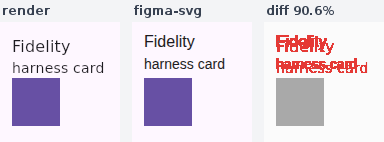
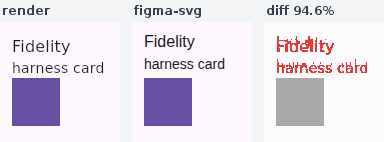
fix: structural (±1px) fidelity diff + locale-stable score JSON
Follow-up to the figma-svg fidelity harness (#2212):

- Give FigmaFidelity a spatial tolerance: a pixel matches when some pixel of the
  other image within a ±1px neighbourhood is close, so an unavoidable sub-pixel
  shift of a text baseline / shape edge between the render and its SVG
  re-rasterisation reads as a match rather than dominating the score. `spatialRadius`
  is configurable (0 restores a position-locked compare). The composite card rises
  from ~91% to ~95% and the diff shows only genuine drift, not 1px text jitter.
- Format the `compose-figma-fidelity.json` score with Locale.ROOT so a comma-decimal
  host locale (e.g. de_DE) can't emit `"score":0,95` and corrupt the JSON
  (Codex review P2). Same for the composite's on-image diff label.

Adds a 1px-shift unit test and pins the raw-agreement test to spatialRadius=0.

Changed region(s): [[0.7188, 0.3944, 0.9375, 0.507], [0.7188, 0.2254, 0.875, 0.3662], [0.7812, 0.0282, 0.8125, 0.1127]]

diff --git a/data/layoutinspector/connector/src/main/kotlin/ee/schimke/composeai/daemon/FigmaFidelity.kt b/data/layoutinspector/connector/src/main/kotlin/ee/schimke/composeai/daemon/FigmaFidelity.kt
@@ -32,6 +32,15 @@ object FigmaFidelity {
   data class Options(
     /** Per-channel absolute difference (0..255) under which a pixel counts as matching. */
     val tolerance: Int = 24,
+    /**
+     * Neighbourhood radius (px) the match is allowed to shift within. A pixel counts as matching
+     * when *some* pixel of the other image within this radius is close — so a ≤`spatialRadius`-px
+     * shift of text baselines or shape edges (all but unavoidable between the render and its SVG
+     * re-rasterisation) reads as a match, not a structural defect. `0` restores an exact
+     * position-locked compare; `1` (default) absorbs the sub-pixel drift that otherwise makes text
+     * dominate the score.
+     */
+    val spatialRadius: Int = 1,
     /** Opaque background both images are flattened onto before comparison (ARGB). */
     val background: Int = 0xFFFFFFFF.toInt(),
     /** Gutter (px) between the panels of the side-by-side composite. */
@@ -72,22 +81,54 @@ object FigmaFidelity {
         options.background,
       )
 
+    val pxa = IntArray(w * h)
+    val pxb = IntArray(w * h)
+    a.getRGB(0, 0, w, h, pxa, 0, w)
+    b.getRGB(0, 0, w, h, pxb, 0, w)
     val diff = BufferedImage(w, h, BufferedImage.TYPE_INT_RGB)
     var matched = 0L
     var errorSum = 0.0
     val total = w.toLong() * h.toLong()
+    val r = options.spatialRadius.coerceAtLeast(0)
     for (y in 0 until h) {
       for (x in 0 until w) {
-        val pa = a.getRGB(x, y)
-        val pb = b.getRGB(x, y)
-        val dr = Math.abs(((pa shr 16) and 0xFF) - ((pb shr 16) and 0xFF))
-        val dg = Math.abs(((pa shr 8) and 0xFF) - ((pb shr 8) and 0xFF))
-        val db = Math.abs((pa and 0xFF) - (pb and 0xFF))
-        errorSum += (dr + dg + db)
-        if (maxOf(dr, dg, db) <= options.tolerance) {
+        val pa = pxa[y * w + x]
+        val ar = (pa shr 16) and 0xFF
+        val ag = (pa shr 8) and 0xFF
+        val ab = pa and 0xFF
+        // Structural match: score this pixel against the *closest* pixel of b within `r`px, so a
+        // sub-pixel shift of an edge/glyph finds its match instead of reading as a mismatch. The
+        // (0,0) neighbour is always in bounds, so `bestMax` is always set.
+        var bestMax = Int.MAX_VALUE
+        var bestSum = 0
+        var dy = -r
+        while (dy <= r) {
+          val ny = y + dy
+          if (ny in 0 until h) {
+            var dx = -r
+            while (dx <= r) {
+              val nx = x + dx
+              if (nx in 0 until w) {
+                val pb = pxb[ny * w + nx]
+                val dr = Math.abs(ar - ((pb shr 16) and 0xFF))
+                val dg = Math.abs(ag - ((pb shr 8) and 0xFF))
+                val db = Math.abs(ab - (pb and 0xFF))
+                val mx = maxOf(dr, dg, db)
+                if (mx < bestMax) {
+                  bestMax = mx
+                  bestSum = dr + dg + db
+                }
+              }
+              dx++
+            }
+          }
+          dy++
+        }
+        errorSum += bestSum
+        if (bestMax <= options.tolerance) {
           matched++
           // Matching pixels: a dimmed grayscale of the render, so mismatches pop.
-          val gray = ((((pa shr 16) and 0xFF) + ((pa shr 8) and 0xFF) + (pa and 0xFF)) / 3)
+          val gray = (ar + ag + ab) / 3
           val dim = (gray * 3 / 5) + 100
           diff.setRGB(x, y, (dim shl 16) or (dim shl 8) or dim)
         } else {
@@ -144,7 +185,12 @@ object FigmaFidelity {
     g.color = Color(0xF3F4F6)
     g.fillRect(0, 0, outW, outH)
     val panels =
-      listOf("render" to render, "figma-svg" to svg, "diff ${"%.1f".format(score * 100)}%" to diff)
+      listOf(
+        "render" to render,
+        "figma-svg" to svg,
+        // Locale.ROOT keeps the label `.`-separated regardless of the host locale.
+        "diff ${String.format(java.util.Locale.ROOT, "%.1f", score * 100)}%" to diff,
+      )
     g.font = Font(Font.SANS_SERIF, Font.BOLD, 12)
     for ((i, panel) in panels.withIndex()) {
       val x = i * (w + gutter)

diff --git a/data/layoutinspector/connector/src/test/kotlin/ee/schimke/composeai/daemon/FigmaFidelityTest.kt b/data/layoutinspector/connector/src/test/kotlin/ee/schimke/composeai/daemon/FigmaFidelityTest.kt
@@ -53,7 +53,9 @@ class FigmaFidelityTest {
     g.color = Color(0xFFFFFF)
     g.fillRect(10, 0, 10, 20)
     g.dispose()
-    val r = FigmaFidelity.compare(a, b)
+    // Position-locked (radius 0) so the boundary column isn't bridged by the spatial tolerance —
+    // this asserts the raw agreement fraction.
+    val r = FigmaFidelity.compare(a, b, FigmaFidelity.Options(spatialRadius = 0))
     assertEquals(0.5, r.score, 1e-9)
   }
 
@@ -66,6 +68,35 @@ class FigmaFidelityTest {
     assertEquals(30, r.width)
     assertEquals(30, r.height)
     assertTrue("scaled-but-identical colour must score high, got ${r.score}", r.score > 0.99)
+  }
+
+  @Test
+  fun `one-pixel shift is absorbed by the default spatial tolerance`() {
+    // A thin vertical black bar, shifted right by 1px between the two images — the kind of
+    // sub-pixel
+    // drift a text baseline / edge shows between the render and its SVG re-rasterisation. With the
+    // default spatialRadius=1 this must score ~perfect; position-locked (radius 0) it must not.
+    fun barAt(col: Int): BufferedImage {
+      val img = BufferedImage(20, 20, BufferedImage.TYPE_INT_ARGB)
+      val g = img.createGraphics()
+      g.color = Color(0xFFFFFF)
+      g.fillRect(0, 0, 20, 20)
+      g.color = Color(0x000000)
+      g.fillRect(col, 0, 2, 20)
+      g.dispose()
+      return img
+    }
+    val a = barAt(8)
+    val b = barAt(9) // shifted 1px
+
+    assertTrue(
+      "1px shift must score ~perfect with spatial tolerance, got ${FigmaFidelity.compare(a, b).score}",
+      FigmaFidelity.compare(a, b).score > 0.99,
+    )
+    assertTrue(
+      "position-locked (radius 0) must flag the shifted bar",
+      FigmaFidelity.compare(a, b, FigmaFidelity.Options(spatialRadius = 0)).score < 0.95,
+    )
   }
 
   @Test

diff --git a/daemon/desktop/src/main/kotlin/ee/schimke/composeai/daemon/FigmaSvgFidelity.kt b/daemon/desktop/src/main/kotlin/ee/schimke/composeai/daemon/FigmaSvgFidelity.kt
@@ -224,10 +224,15 @@ object FigmaSvgFidelity {
     return out.toByteArray()
   }
 
+  // Locale.ROOT so decimals are always `.`-separated — a comma-decimal host locale (e.g. de_DE)
+  // would otherwise emit `"score":0,91`, which is not valid JSON.
   private fun scoreJson(r: FigmaFidelity.Result, rasterizer: String): String =
-    """{"score":${"%.4f".format(r.score)},""" +
-      """"scorePercent":${"%.2f".format(r.scorePercent)},""" +
-      """"meanAbsError":${"%.3f".format(r.meanAbsError)},""" +
+    """{"score":${fmt("%.4f", r.score)},""" +
+      """"scorePercent":${fmt("%.2f", r.scorePercent)},""" +
+      """"meanAbsError":${fmt("%.3f", r.meanAbsError)},""" +
       """"rasterizer":"$rasterizer",""" +
       """"width":${r.width},"height":${r.height}}"""
+
+  private fun fmt(pattern: String, value: Double): String =
+    String.format(java.util.Locale.ROOT, pattern, value)
 }

diff --git a/docs/design/figma-svg-example/fidelity/README.md b/docs/design/figma-svg-example/fidelity/README.md
@@ -17,13 +17,17 @@ and a browser live). The pure scoring/compositing lives in `FigmaFidelity`; the 
 
 ![hybrid image fidelity](hybrid-image.png)
 
-**Composite card — ~91%.** A themed `Surface` with a title, body text, and a coloured box. The
-surface fill and box match; the diff isolates a small **text-baseline drift** (the red ghosting on
-the text) — exactly the structural signal used to drive the text baseline/alignment fixes.
+**Composite card — ~95%.** A themed `Surface` with a title, body text, and a coloured box. The
+surface fill and box match exactly; the diff shows only faint residual on the text where the SVG
+baseline drifts by more than a pixel — a genuine, but small, structural signal to drive the text
+baseline/alignment fix from.
 
 ![card fidelity](card.png)
 
-The score is a per-pixel agreement fraction over a common opaque background, with a tolerance that
-absorbs antialiasing so it flags structural drift (missing shape, wrong fill, misplaced text) rather
-than sub-pixel noise. The `rasterizer` field in the sidecar records whether Chromium (text-inclusive)
-or the Skia fallback (shapes only) produced the score.
+The score is a per-pixel agreement fraction over a common opaque background. It's a **structural**
+metric: a per-channel colour tolerance absorbs antialiasing, and a **spatial tolerance** (a ±1px
+neighbourhood match) absorbs the sub-pixel baseline/edge drift that is unavoidable between the render
+and its SVG re-rasterisation — so the score flags real drift (missing shape, wrong fill, text off by
+more than a pixel) rather than being dominated by 1px text jitter. The `rasterizer` field in the
+sidecar records whether Chromium (text-inclusive) or the Skia fallback (shapes only) produced the
+score.

diff --git a/docs/design/figma-svg-example/README.md b/docs/design/figma-svg-example/README.md
@@ -80,4 +80,6 @@ and runs on the desktop backend. The score drives the vector-vs-raster split and
 structural fixes (text baselines, clip-to-rounded-parent, resolved `Surface`/`Card`
 fills) from evidence rather than per-component guessing — e.g. it already shows the
 hybrid raster is pixel-faithful (100%) while flagging a small text-baseline drift on a
-composite card.
+composite card (~95%). The score is structural: a colour tolerance plus a ±1px spatial
+tolerance absorb antialiasing and unavoidable sub-pixel text jitter, so only real drift
+counts.
